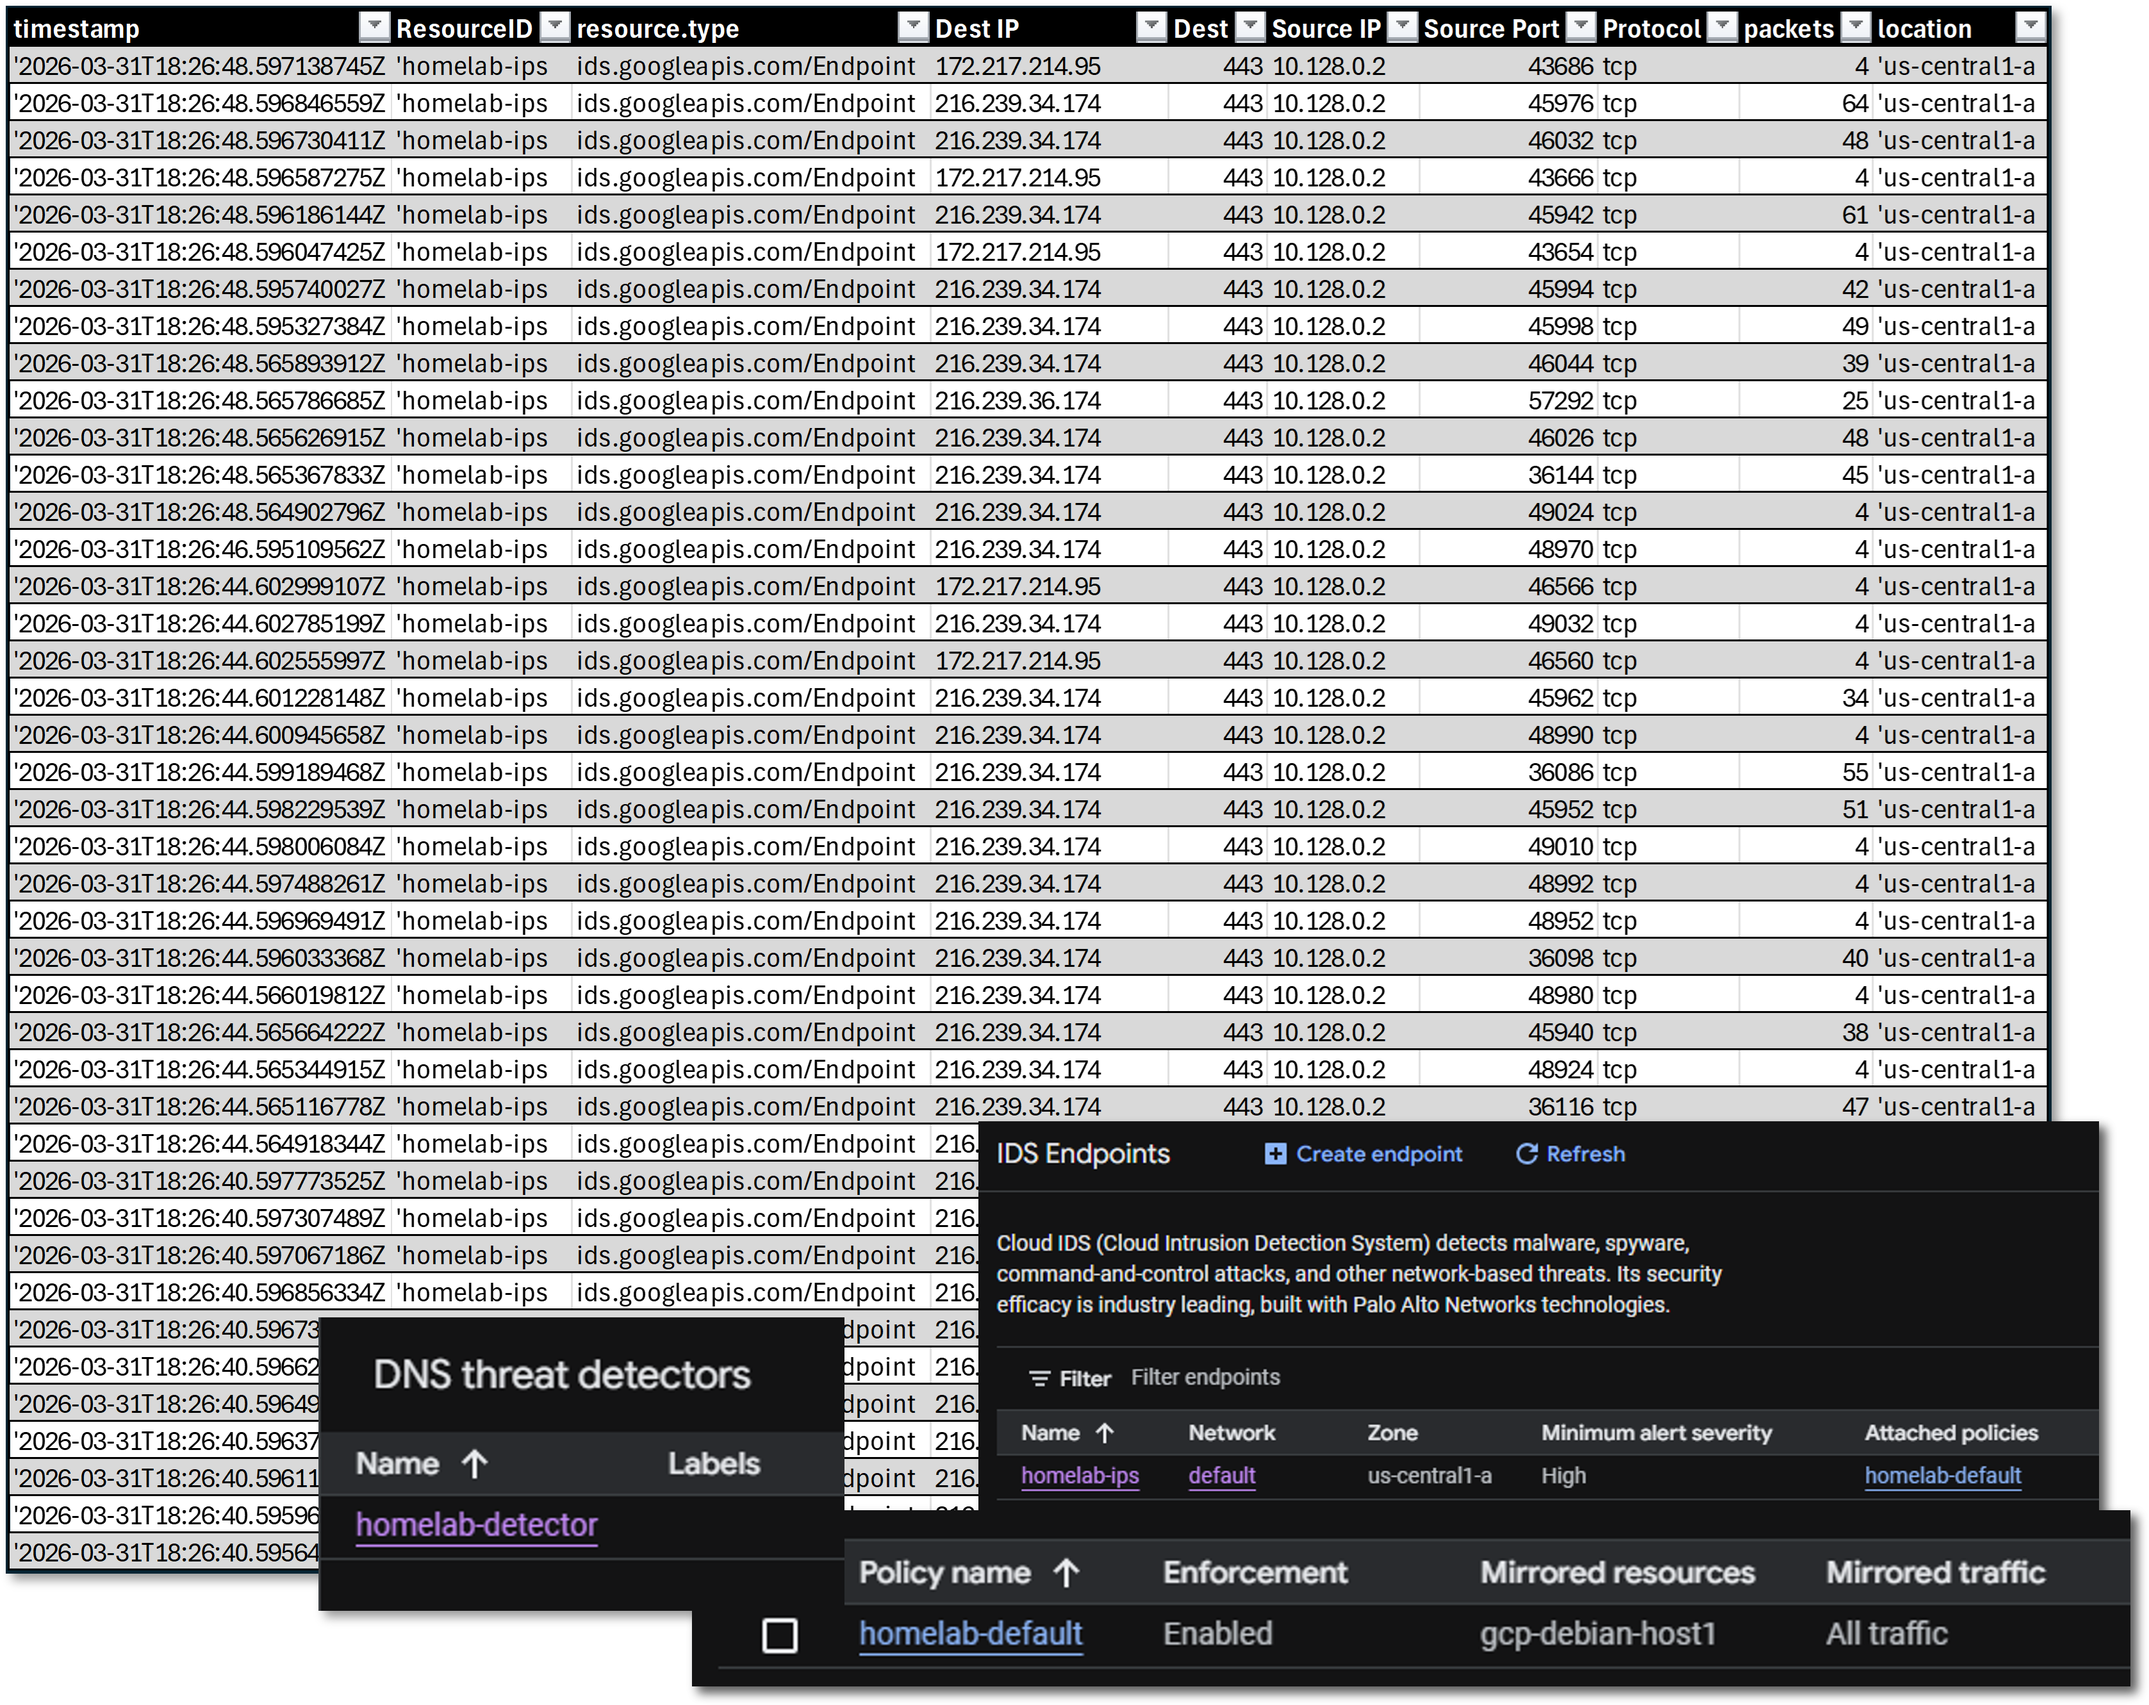
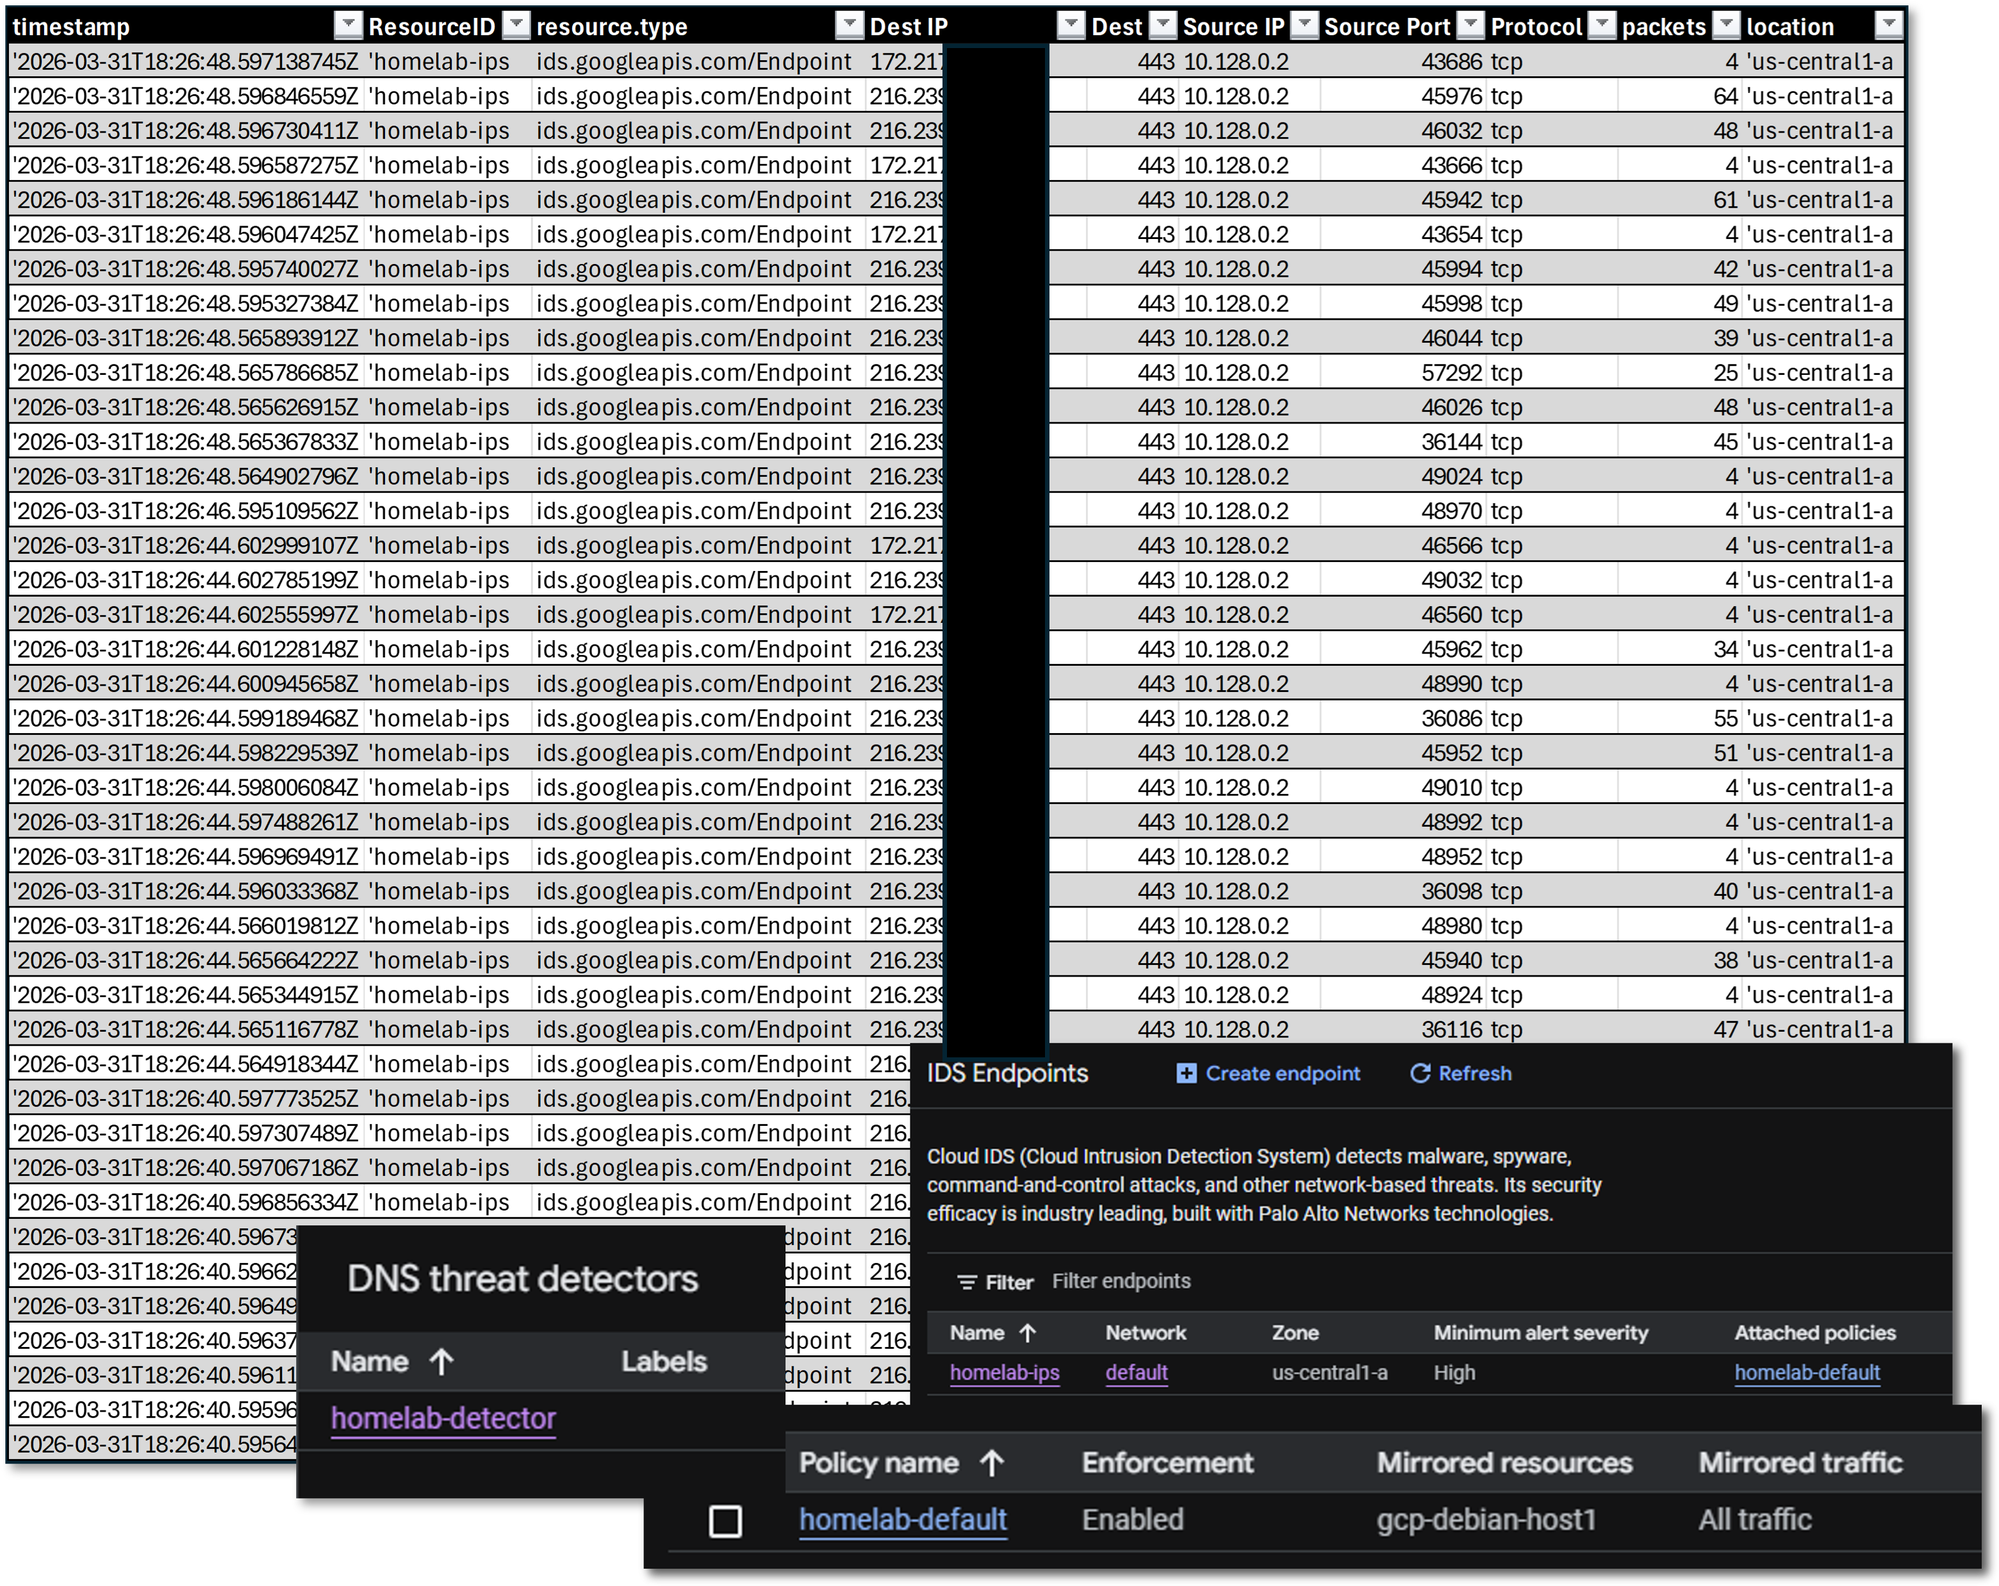
updates

Changed region(s): [[0.4663, 0.0, 0.5285, 0.6844]]

diff --git a/docs/projects/homelab/09-cloud-iaas.md b/docs/projects/homelab/09-cloud-iaas.md
@@ -1,9 +1,9 @@
 # Cloud IaaS Integration – AWS, Azure and GCP
 
-**Document Control:**
-Version: 1.0
-Last Updated: March 31, 2026
-Owner: Paul Leone
+**Document Control:**   
+Version: 1.1  
+Last Updated: April 01, 2026  
+Owner: Paul Leone 
 
 ---
 
@@ -297,13 +297,6 @@ Management and API audit logging enabled for all events. Logs delivered to S3 wi
 Infrastructure metrics collected from both EC2 instances via CloudWatch Agent. Custom metrics and log groups forward application and system logs. Alarms trigger SNS notifications and can initiate Lambda-based automated response. VPC Flow Logs (fl-03179f74e54bf1aa4) delivered to CloudWatch Logs capture all accepted and rejected traffic with ENI, source/destination addresses, ports, and action.
 
 ### Monitoring and Alerting
-
-<figure>
-  <img src="/Career_Projects/assets/screenshots/aws-console.png" alt="AWS Console Overview">
-  <figcaption style="font-size:0.9rem; color:var(--md-secondary-text-color); margin-top:0.5rem;">
-    AWS Console Overview
-  </figcaption>
-</figure>
 
 | Source | Alert Type | Destination |
 |--------|-----------|-------------|
@@ -733,13 +726,6 @@ homelab-log is the central log repository for all Azure diagnostic data: VM perf
 The Connected Machine Agent is installed on both Azure VMs and is planned for extension to on-premises Proxmox-hosted Linux hosts and AWS EC2 instances. Arc registers each machine as a resource in Azure Resource Manager, enabling Defender for Cloud Secure Score recommendations, Azure Policy assignments, and Guest Configuration auditing to apply uniformly across cloud and on-premises workloads.
 
 ### Monitoring and Alerting
-
-<figure>
-  <img src="/Career_Projects/assets/screenshots/azure-console.png" alt="Azure Console Overview">
-  <figcaption style="font-size:0.9rem; color:var(--md-secondary-text-color); margin-top:0.5rem;">
-    Azure Console Overview
-  </figcaption>
-</figure>
 
 | Source | Alert Type | Destination |
 |--------|-----------|-------------|

diff --git a/docs/projects/homelab/02-platform.md b/docs/projects/homelab/02-platform.md
@@ -509,12 +509,12 @@ All three routers form OSPF adjacencies over 10.30.0.0/29 using MD5 authenticati
 **Banners:** All devices enforce login, exec, and incoming banners identifying the lab domain (shadowitlab.com) and prohibiting unauthorized access.
 
 ```text
-***************************************************
-* Homelab, shadowitlab.com                        *
-* AUTHORIZED ACCESS ONLY                          *
-* Unauthorized access is prohibited and will be   *
-* monitored, logged, and reported.                *
-***************************************************
+  ***************************************************
+  * Homelab, shadowitlab.com                        *
+  * AUTHORIZED ACCESS ONLY                          *
+  * Unauthorized access is prohibited and will be   *
+  * monitored, logged, and reported.                *
+  ***************************************************
 ```
 ---
 
@@ -1613,8 +1613,8 @@ spec:
   ports:
   - port: 6379
     targetPort: 6379
-
 ```
+
 ---
 ### Version Control Strategy
 
